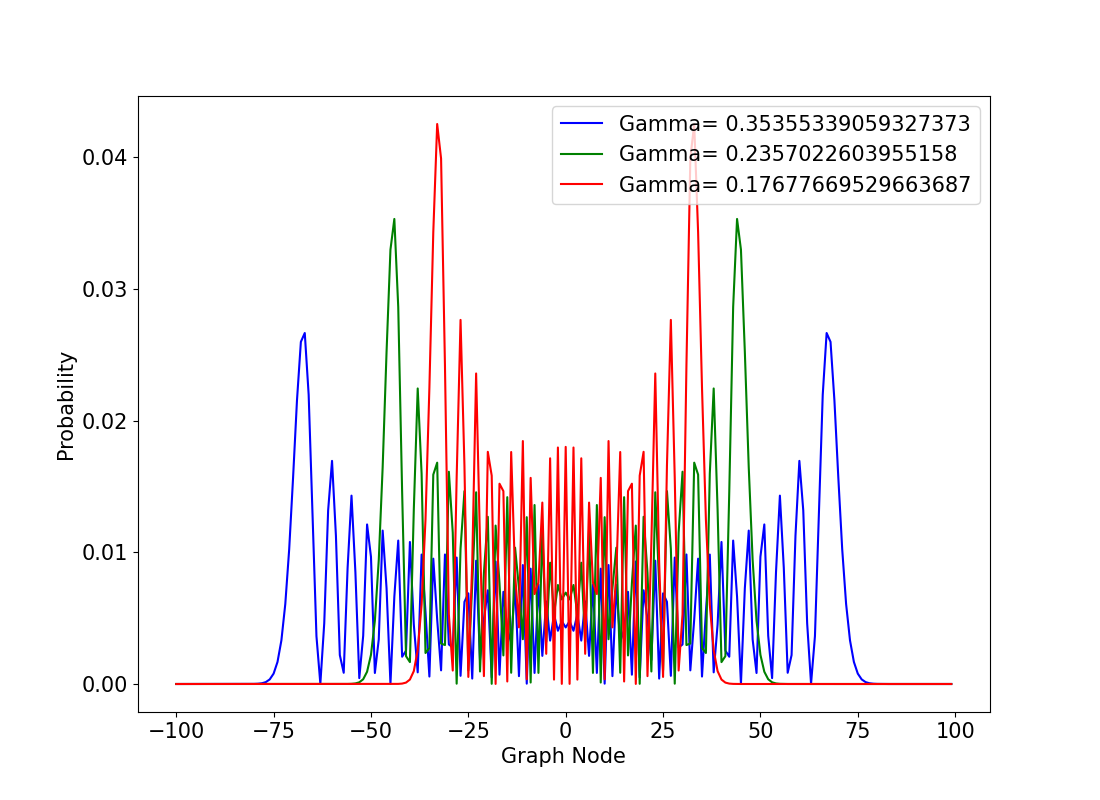
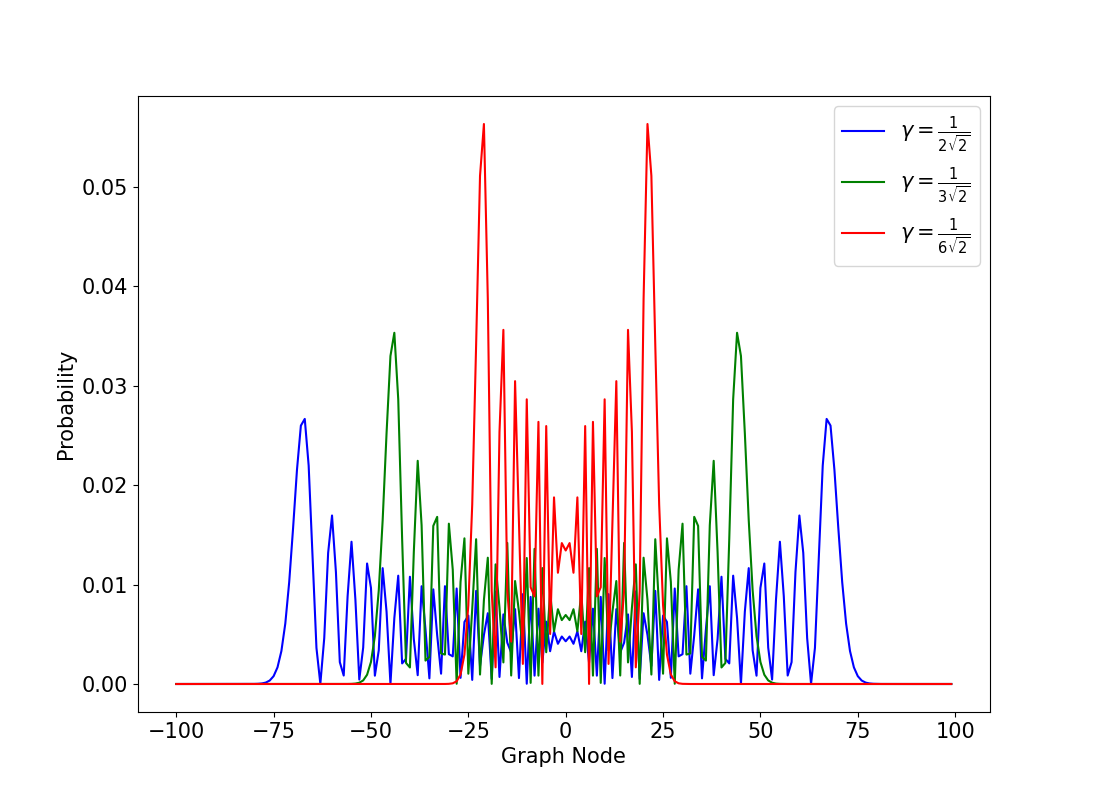
stag plots

diff --git a/Coding/Python Simulations/StaggeredQW/stagqw.py b/Coding/Python Simulations/StaggeredQW/stagqw.py
@@ -4,6 +4,8 @@ from graphs import *
 from scipy import linalg
 import matplotlib.patches as mpatches
 from fractions import Fraction
+rcParams['figure.figsize'] = 11, 8
+matplotlib.rcParams.update({'font.size': 15})
 
 def init_state(N,init):
     psi0 = np.zeros((N,1))
@@ -36,36 +38,33 @@ def prob_vec(psiN,N):
         probs[x]=psiN[x]*conjugate(psiN[x]) 
     return probs
 
-def plotmultqw(N,prob,prob2,prob3,theta1,theta2,theta3):
+def plotmultqw(N,prob1,prob2,prob3,label1,label2,label3,initCond):
     # matplotlib.rcParams.update({'font.size': 14})
 
     x = arange(-N/2,N/2)
-    plot(x,prob,'b',label="pi/3")
-    plot(x,prob2,'g',label="pi/4")
-    plot(x,prob3,'r',label="pi/5") #plot the lines
-    legend(["pi/3", "pi/4","pi/5"])
+    plot(x,prob1,'b',label=r"$\theta = \frac{\pi}{%s}$"%label1)
+    plot(x,prob2,'g',label=r"$\theta = \frac{\pi}{%s}$"%label2)
+    plot(x,prob3,'r',label=r"$\theta = \frac{\pi}{%s}$"%label3) #plot the lines
+    legend()
     xlabel("Graph Node")
     ylabel("Probability")
-    show()
+    # show()
+    savefig(r'C:\Users\Jaime\Documents\GitHub\Jaime-Santos-Dissertation\Results\Simulations\StagQuantumWalk\stagqwMultiple')
+    clf()
 
-def plotqw(N,prob):
+def plotqw(N,prob,initcond):
     #x = arange(N)
     x = linspace(N/2,-N/2,N)
-    plot(x,prob,'r')
+    plot(x,prob)
     xlabel("Graph Node")
     ylabel("Probability")
-    show()
+    # show()
+    savefig(r'C:\Users\Jaime\Documents\GitHub\Jaime-Santos-Dissertation\Results\Simulations\StagQuantumWalk\stagqwSingle'+str(initcond))
+    clf()
 
 def stgqwalk(t1,t2, N, theta,steps,init):
     A = t1.adjacency_matrix()
-    B = t2.adjacency_matrix()
-    # print("Alfa")
-    # print(A)
-    # print("#######")
-    # print("Beta")
-    # print(B)
-    # print("#######")
-    
+    B = t2.adjacency_matrix()    
     Ha = A 
     Hb = B 
     psi0 = init_state(N,init)
@@ -76,9 +75,14 @@ def stgqwalk(t1,t2, N, theta,steps,init):
     return probvec
 
 N = 200
-theta1= pi/3
-theta2= pi/4
-theta3= pi/5
+denom1 = 3
+denom2 = 4
+denom3 = 5
+initcond = 10
+
+theta1= pi/denom1
+theta2= pi/denom2
+theta3= pi/denom3
 steps = 50
 i = Graph({})
 j = Graph({})
@@ -86,12 +90,16 @@ j = Graph({})
 t1 = i.line_tesselation(N,'alpha') 
 t2 = j.line_tesselation(N,'beta')
 
-#print(t1.adjacency_matrix())
-#print()
-#print(t2.adjacency_matrix())
-k1=stgqwalk(t1,t2,N,theta1,steps,1)
-k2=stgqwalk(t1,t2,N,theta2,steps,0)
-k3=stgqwalk(t1,t2,N,theta3,steps,0)
+qwSup1=stgqwalk(t1,t2,N,theta1,steps,initcond)
+qwSup2=stgqwalk(t1,t2,N,theta2,steps,initcond)
+qwSup3=stgqwalk(t1,t2,N,theta3,steps,initcond)
+plotmultqw(N,qwSup1,qwSup2,qwSup3,denom1,denom2,denom3,str(initcond))
 
-# plotmultqw(N,k1,k2,k3,theta1,theta2,theta3)
-plotqw(N,k1)
+steps1 = 50
+initcond0 = 0
+qwSingle0=stgqwalk(t1,t2,N,theta1,steps1,initcond0)
+plotqw(N,qwSingle0,initcond0)
+
+initcond1 = 1
+qwSingle1=stgqwalk(t1,t2,N,theta1,steps1,initcond1)
+plotqw(N,qwSingle1,initcond1)

diff --git a/Coding/Python Simulations/ContinuousQW/ctqw.py b/Coding/Python Simulations/ContinuousQW/ctqw.py
@@ -31,9 +31,9 @@ def prob_vec(psiN,N):
 def plotmultqw(N,prob1,prob2,prob3,label1,label2,label3,typeOfPlot,superposition):
     x = arange(-N/2,N/2)
     if typeOfPlot == 'Gamma':
-        plot(x,prob1,'b',label="Gamma= %s"%str(label1))
-        plot(x,prob2,'g',label="Gamma= %s"%str(label2))
-        plot(x,prob3,'r',label="Gamma= %s"%str(label3))
+        plot(x,prob1,'b',label=r"$\gamma = \frac{1}{%s\sqrt{2}}$"%str(label1))
+        plot(x,prob2,'g',label=r"$\gamma = \frac{1}{%s\sqrt{2}}$"%str(label2))
+        plot(x,prob3,'r',label=r"$\gamma = \frac{1}{%s\sqrt{2}}$"%str(label3))
     if typeOfPlot == 'Time':
         plot(x,prob1,'b',label="Time Interval= %s"%str(label1))
         plot(x,prob2,'g',label="Time Interval= %s"%str(label2))
@@ -79,11 +79,15 @@ t = 100
 t1 = 40
 t2 = 80
 t3 = 120
-gamma = 1/(2*np.sqrt(2)) #gamma otimo que aumenta a distancia das cristas
+denom = 2
+gamma = 1/(denom*np.sqrt(2)) #gamma otimo que aumenta a distancia das cristas
 
-gamma1 = 1/(2*np.sqrt(2)) 
-gamma2 = 1/(3*np.sqrt(2)) 
-gamma3 = 1/(4*np.sqrt(2)) 
+denom1=2
+denom2=3
+denom3=6
+gamma1 = 1/(denom1*np.sqrt(2)) 
+gamma2 = 1/(denom2*np.sqrt(2)) 
+gamma3 = 1/(denom3*np.sqrt(2)) 
 
 lg = Graph({})
 lg = lg.linegraph(N) #defined in graph.py, must have "pip install natsort" -> TODO: Remove the dependency
@@ -106,7 +110,7 @@ plotqw(N,qwSup,True,initCondSup)
 qwg1 = ctqwalk(lg,N,t,gamma1,initState)
 qwg2 = ctqwalk(lg,N,t,gamma2,initState)
 qwg3 = ctqwalk(lg,N,t,gamma3,initState)
-plotmultqw(N,qwg1,qwg2,qwg3,gamma1,gamma2,gamma3,'Gamma',False)
+plotmultqw(N,qwg1,qwg2,qwg3,denom1,denom2,denom3,'Gamma',False)
 
 qwt1=ctqwalk(lg,N,t1,gamma,initState)
 qwt2=ctqwalk(lg,N,t2,gamma,initState)
